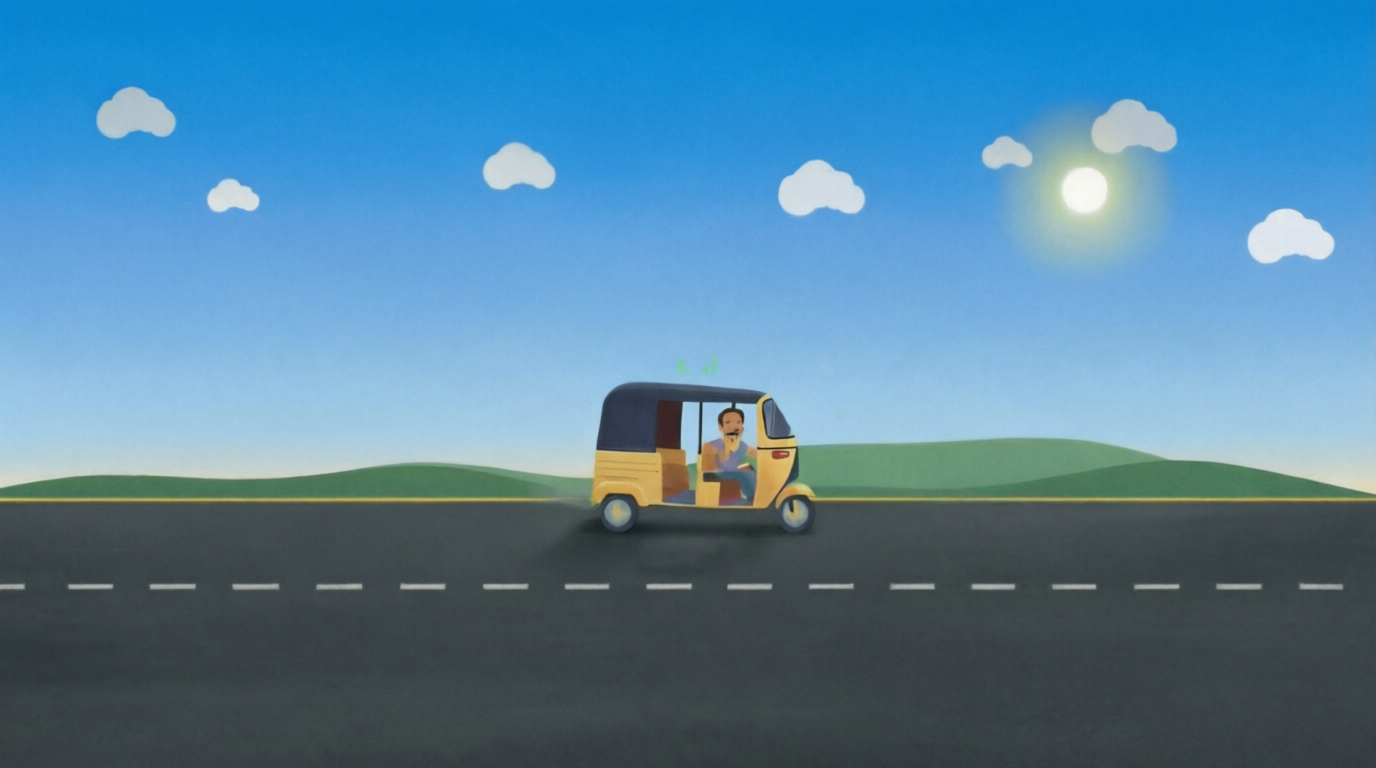
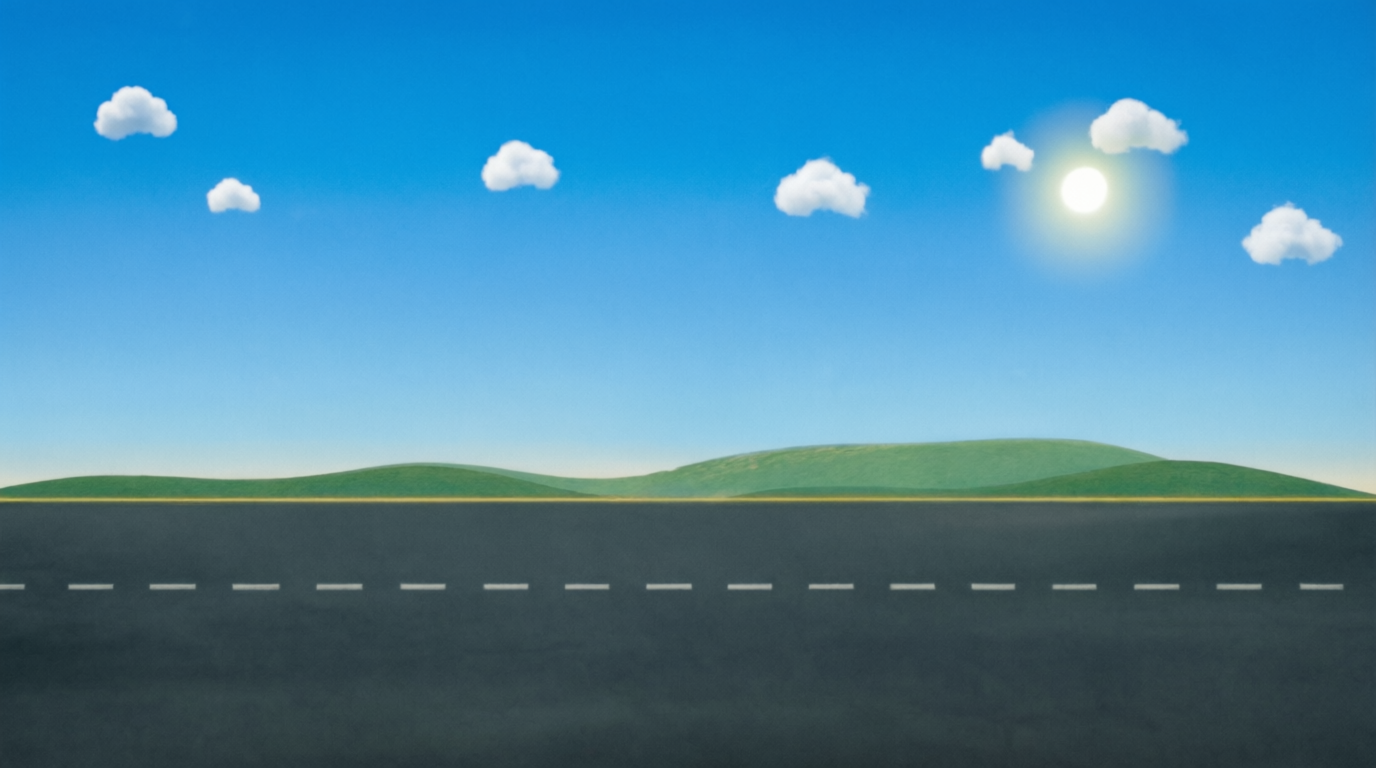
Replace Deluxe Auto road background

Changed region(s): [[0.0, 0.0938, 1.0, 0.5], [0.4062, 0.4688, 0.5938, 0.7188]]

diff --git a/client/src/App.css b/client/src/App.css
@@ -1935,18 +1935,7 @@ body {
 .theme-taxi .taxi-road-markings,
 .theme-taxi .taxi-car { display: none; }
 .theme-taxi .rain-canvas { display: none !important; }
-.theme-taxi .taxi-scene::before {
-  display: block;
-  content: '';
-  position: absolute;
-  z-index: 2;
-  left: 0;
-  right: 0;
-  top: 48.8%;
-  height: 10px;
-  pointer-events: none;
-  background: linear-gradient(to bottom, transparent, rgba(76,111,103,.72) 42%, rgba(65,91,87,.58) 62%, transparent);
-}
+.theme-taxi .taxi-scene::before { display: none; }
 .theme-taxi .scene-overlay {
   background: linear-gradient(to bottom, rgba(5,18,28,.12), rgba(5,12,20,0) 58%, rgba(2,8,14,.34) 100%);
 }
